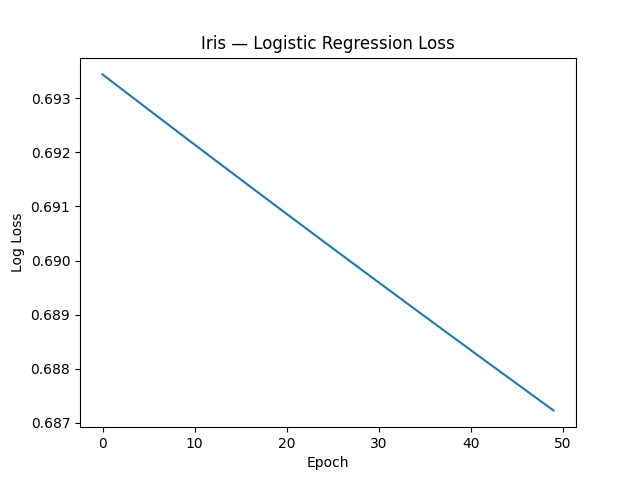
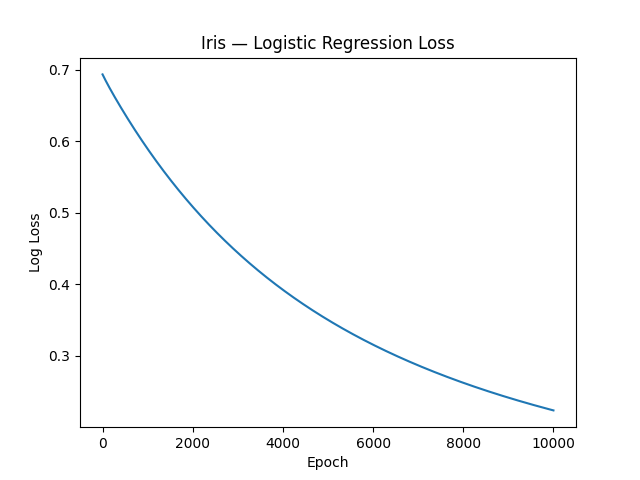
Added logistic regression stochastic version

diff --git a/Assignment1/logisticRegressionSGD.py b/Assignment1/logisticRegressionSGD.py
@@ -1,0 +1,101 @@
+import numpy as np
+
+class LogisticRegressionSGD:
+    """ADAptive LInear NEuron classifier.
+    Parameters
+    ------------
+    eta : float
+    Learning rate (between 0.0 and 1.0)
+    n_iter : int
+    Passes over the training dataset.
+    shuffle : bool (default: True)
+    Shuffles training data every epoch if True to prevent
+    cycles.
+    random_state : int
+    Random number generator seed for random weight
+    initialization.
+    Attributes
+    -----------
+    w_ : 1d-array
+    Weights after fitting.
+    losses_ : list
+    Logistic Regression loss function value averaged over all
+    training examples in each epoch.
+    """
+    def __init__(self, eta=0.01, n_iter=10,
+        shuffle=True, random_state=None):
+        self.eta = eta
+        self.n_iter = n_iter
+        self.w_initialized = False
+        self.shuffle = shuffle
+        self.random_state = random_state
+    def fit(self, X, y):
+        """ Fit training data.
+        Parameters
+        ----------
+        X : {array-like}, shape = [n_examples, n_features]
+        Training vectors, where n_examples is the number of
+        examples and n_features is the number of features.
+        y : array-like, shape = [n_examples]
+        Target values.
+        Returns
+        -------
+        self : object
+        """
+
+        #Get the num rows of X and append a column of 1s
+        rows = X.shape[0]
+        X = np.hstack((X, np.ones((rows,1))))
+
+        self._initialize_weights(X.shape[1])
+        self.losses_ = []
+        for i in range(self.n_iter):
+            if self.shuffle:
+                X, y = self._shuffle(X, y)
+            losses = []
+            for xi, target in zip(X, y):
+                losses.append(self._update_weights(xi, target))
+            avg_loss = np.mean(losses)
+            self.losses_.append(avg_loss)
+        return self
+    def partial_fit(self, X, y):
+        """Fit training data without reinitializing the weights"""
+        if not self.w_initialized:
+            self._initialize_weights(X.shape[1])
+        if y.ravel().shape[0] > 1:
+            for xi, target in zip(X, y):
+                self._update_weights(xi, target)
+            else:
+                self._update_weights(X, y)
+            return self
+    def _shuffle(self, X, y):
+        """Shuffle training data"""
+        r = self.rgen.permutation(len(y))
+        return X[r], y[r]
+    def _initialize_weights(self, m):
+        """Initialize weights to small random numbers"""
+        self.rgen = np.random.RandomState(self.random_state)
+        self.w_ = self.rgen.normal(loc=0.0, scale=0.01,
+        size=m)
+        self.b_ = np.float_(0.)
+        self.w_initialized = True
+    def _update_weights(self, xi, target):
+        """Apply LogisticRegression learning rule to update the weights"""
+        output = self.activation(self.net_input(xi))
+        error = (target - output)
+        self.w_ += self.eta * xi * (error)
+        loss = (target * (np.log(output))) - ((1 - target) * (np.log(1 - output)))
+        return loss
+    def net_input(self, X):
+        """Calculate net input"""
+        return np.dot(X, self.w_)
+    def activation(self, z):
+        """Compute logistic sigmoid activation"""
+        return 1. / (1. + np.exp(-np.clip(z, -250, 250)))
+    def predict(self, X):
+        #Get the num rows of X and append a column of 1s
+        rows = X.shape[0]
+        X = np.hstack((X, np.ones((rows,1))))
+
+        """Return class label after unit step"""
+        return np.where(self.activation(self.net_input(X)) >= 0.5, 1, 0)

diff --git a/Assignment1/compare_losses.py b/Assignment1/compare_losses.py
@@ -14,9 +14,9 @@ This plots the adaline and logistic regression
 
 # wine data sets 
 X_wine, y_wine = load_wine_data()
-ada_wine = ModifiedAdalineGD(eta=0.01, n_iter=50, random_state=1)
+ada_wine = ModifiedAdalineGD(eta=0.01, n_iter=10000, random_state=1)
 ada_wine.fit(X_wine, y_wine)
-log_wine = ModifiedLogisticRegressionGD(eta=0.01, n_iter=50, random_state=1)
+log_wine = ModifiedLogisticRegressionGD(eta=0.01, n_iter=10000, random_state=1)
 log_wine.fit(X_wine, y_wine)
 
 print("Adaline final loss:", ada_wine.losses_[-1])
@@ -25,9 +25,9 @@ print("Logistic final loss:", log_wine.losses_[-1])
 print("Logistic epochs:", len(log_wine.losses_))
 
 X_iris, y_iris = load_iris_data()
-ada_iris = ModifiedAdalineGD(eta=0.01, n_iter=50, random_state=1)
+ada_iris = ModifiedAdalineGD(eta=0.01, n_iter=10000, random_state=1)
 ada_iris.fit(X_iris, y_iris)
-log_iris = ModifiedLogisticRegressionGD(eta=0.01, n_iter=50, random_state=1)
+log_iris = ModifiedLogisticRegressionGD(eta=0.01, n_iter=10000, random_state=1)
 log_iris.fit(X_iris, y_iris)
 
 # wine
